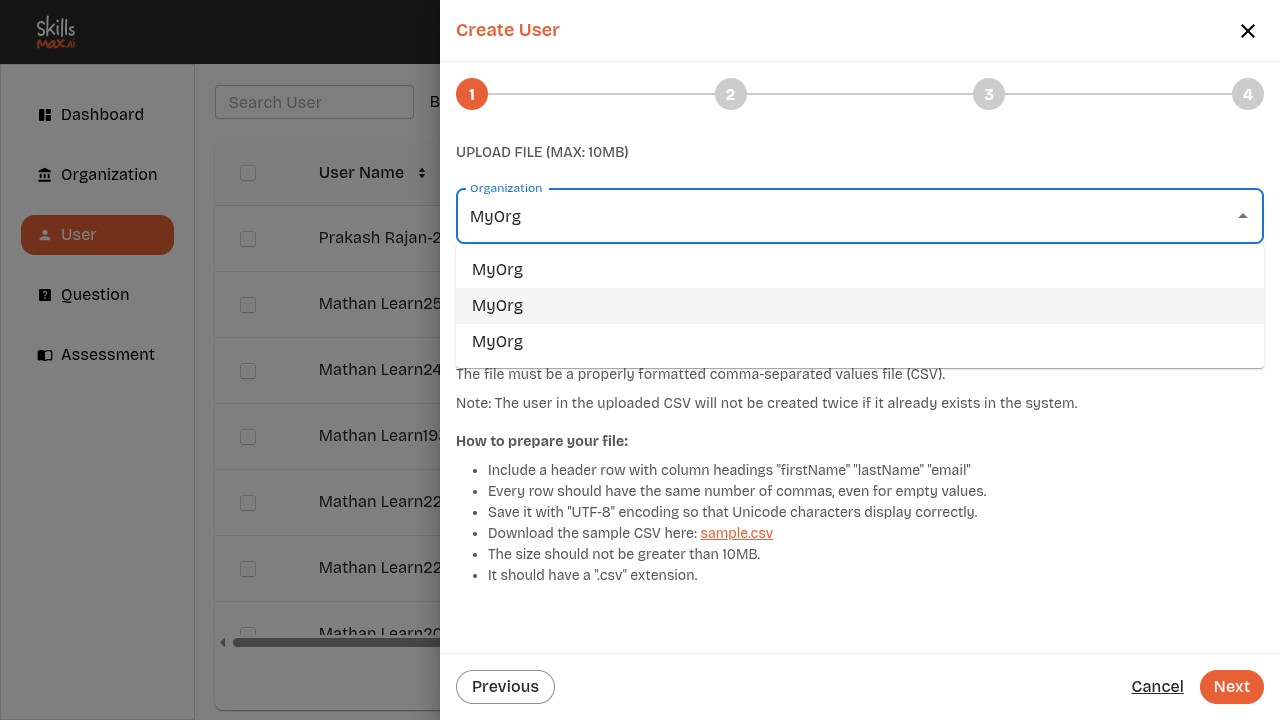
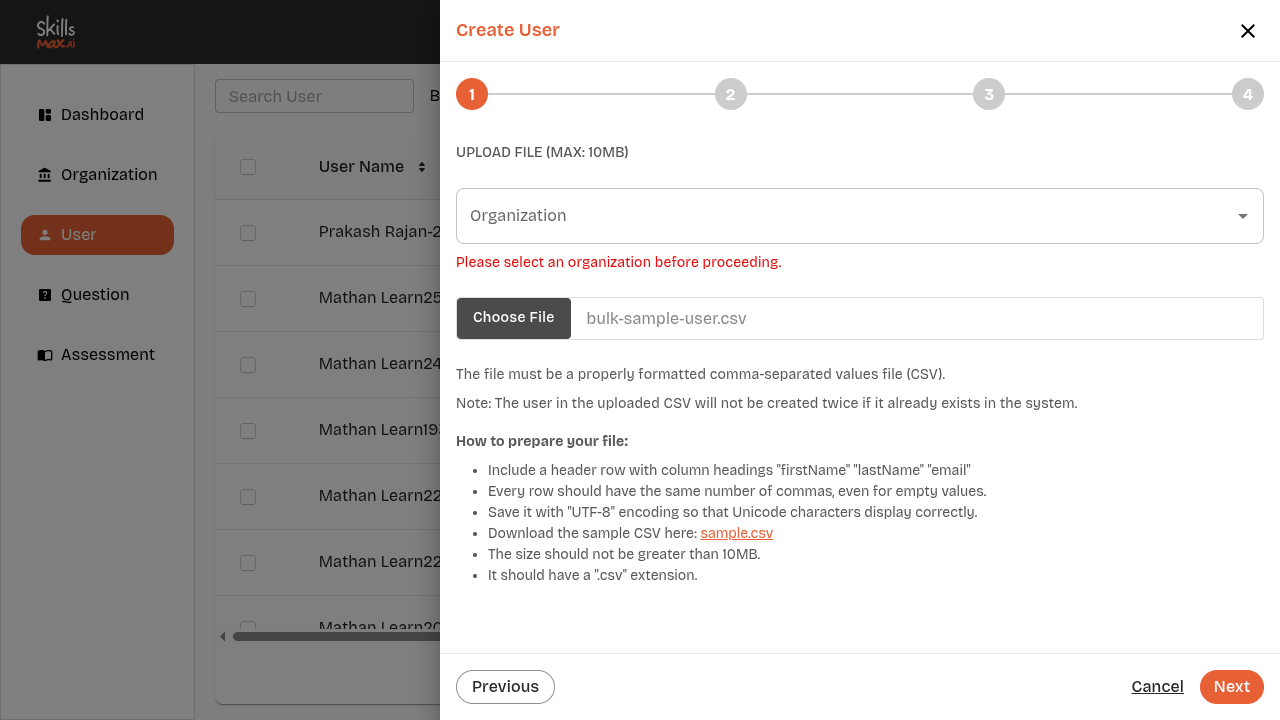
Feat:createUser is added

diff --git a/src/stepObjects/createUser.ts b/src/stepObjects/createUser.ts
@@ -27,13 +27,16 @@ export class createUser {
 
   async clickNextsButton(){
     await this.page.locator('//p[text()="Next"]').click();
-    await this.page.locator('//p[text()="Next"]').click();
   }
 
   async creationUser() {
-    const input = this.page.locator("//label[contains(text(), 'Organization')]/following::input[1]");
-    await input.fill("MyOrg");
+    await this.page.locator('//*[@id="organization-select"]').click();
+    await this.page.locator('//*[@id="organization-select-option-15"]').click();
     await this.page.locator("//input[@type='file']").setInputFiles('/home/Sangeetha/Documents/testing-training/assets/bulk-sample-user.csv');
+    const nextButton =this.page.locator('button:has-text("Next")');
+    await nextButton.waitFor({ state: 'visible' });
+    await nextButton.click();
+    
   }
 
   async clickConfirm() {
